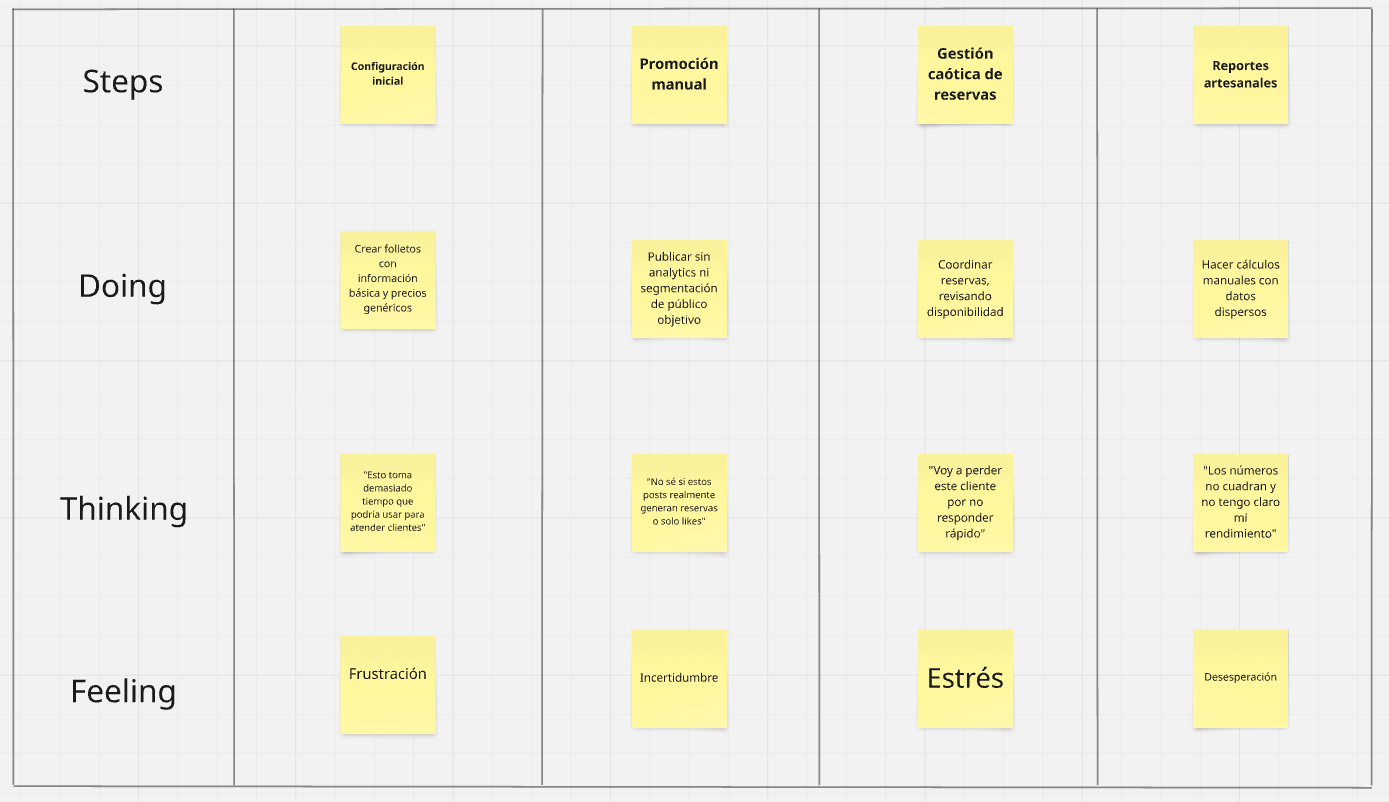
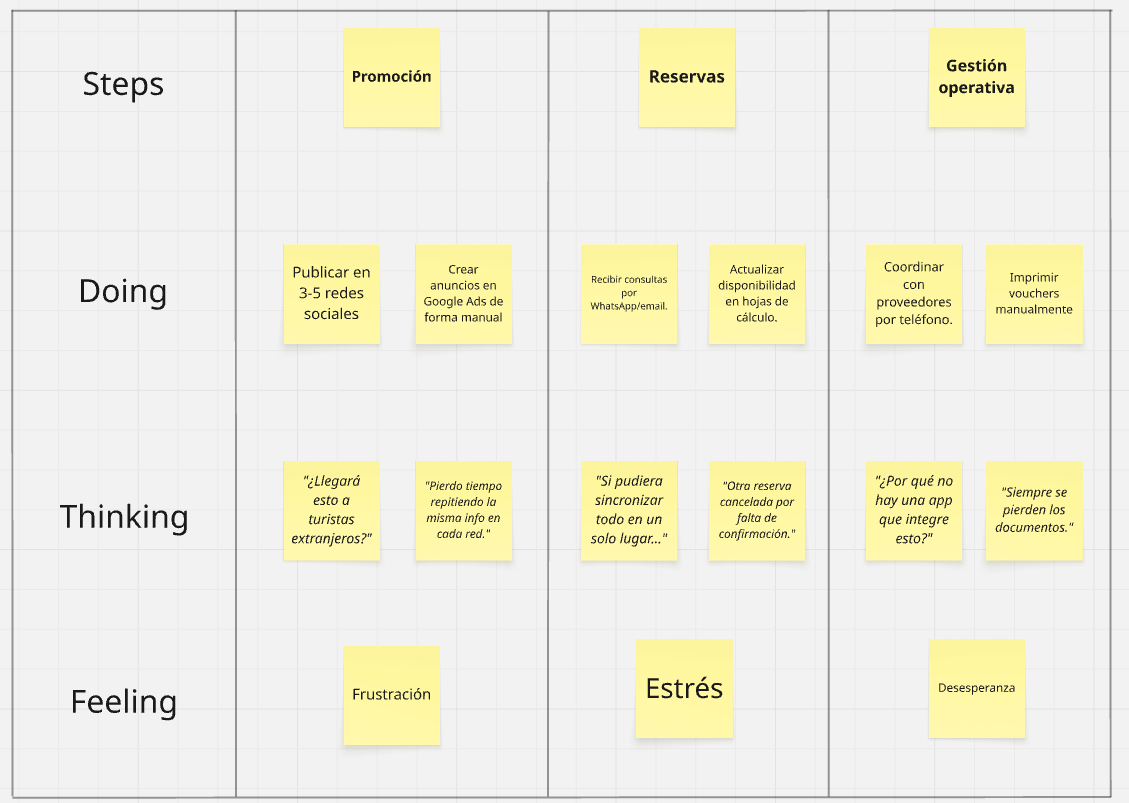
feat: agregando modificaciones

diff --git a/README.md b/README.md
@@ -862,22 +862,64 @@ Basados en los resultados de las entrevistas y el análisis de datos, hemos defi
 
 #### 2.3.2. User Task Matrix
 
-<p align="center">
-    <img src="assets/recursos/Task_Matrix_Turistas.jpg" alt="Task-Matrix-Turistas"/>
-</p>
+***Segmento 1: Dueños de agencia de viajes***
 
-<p align="center">
-    <img src="assets/recursos/Task_Matrix_Agencias.jpg" alt="Task-Matrix-Agencias"/>
-</p>
+|**Tony Blades**|||
+| :-: | :- | :- |
+|**Actividades**|**Frecuencia**|**Importancia**|
+|Gestionar y actualizar catálogo de tours en tiempo real|Alta|Alta|
+|Sincronizar disponibilidad de tours en múltiples canales|Alta|Alta|
+|Responder consultas de clientes a través de la plataforma|Alta|Alta|
+|Generar reportes de reservas y rendimiento financiero|Media|Alta|
+|Promocionar tours en redes sociales integradas|Media|Media|
+|Configurar precios dinámicos según temporada|Media|Alta|
+|Capacitar al equipo en el uso de la plataforma|Baja|Media|
 
-<p align="center">
-    <img src="assets/recursos/Task_Matrix_Viajeros.jpg" alt="Task-Matrix-Viajeros"/>
-</p>
+***Segmento 2: Turistas nacionales e internacionales***
+
+|**Adrián Méndez**|||
+| :-: | :- | :- |
+|**Actividades**|**Frecuencia**|**Importancia**|
+|Buscar actividades filtradas por destino, presupuesto e intereses|Alta|Alta|
+|Comparar precios, reseñas y duración de tours	|Alta|Alta|
+|Reservar actividades con confirmación instantánea|Alta|Alta|
+|Comunicarse con guías/agencias para personalizar tours|Media|Alta|
+|Gestionar itinerarios de viaje integrados|Media|Alta|
+|Compartir experiencias en redes sociales desde la app|Media|Media|
+|Calificar tours y dejar reseñas detalladas|Media|Alta|
+
+***Segmento 3: Turistas corporativos***
+
+|**César Vásquez**|||
+| :-: | :- | :- |
+|**Actividades**|**Frecuencia**|**Importancia**|
+|Encontrar actividades cercanas a su ubicación laboral|Alta|Alta|
+|Recibir recomendaciones automáticas basadas en horario disponible|Alta|Alta|
+|Reservar tours cortos con flexibilidad horaria|Alta|Alta|
+|Verificar puntualidad y confiabilidad de las agencias|Alta|Alta|
+|Acceder a opciones de pago rápido|Media|Alta|
+|Gestionar reservas desde la app móvil en tiempo real|Alta|Alta|
+|Recibir alertas de actividades compatibles con su agenda|Media|Media|
+
 
 #### 2.3.3. User Journey Mapping
 
+***Segmento 1: Dueños de agencia de viajes***
+
 <p align="center">
-    <img src="assets/recursos/User_Journey_Mapping.jpg" alt="User-Journey-Mapping"/>
+    <img src="assets/recursos/User_Journey_Mapping1.png" alt="User-Journey-Mapping"/>
+</p>
+
+***Segmento 2: Turistas nacionales e internacionales***
+
+<p align="center">
+    <img src="assets/recursos/User_Journey_Mapping2.png" alt="User-Journey-Mapping"/>
+</p>
+
+***Segmento 3: Turistas corporativos***
+
+<p align="center">
+    <img src="assets/recursos/User_Journey_Mapping3.png" alt="User-Journey-Mapping"/>
 </p>
 
 #### 2.3.4. Empathy Mapping
@@ -905,7 +947,7 @@ Basados en los resultados de las entrevistas y el análisis de datos, hemos defi
 #### 2.3.5.1. As-is Scenario Mapping Turistas nacionales e internacionales
 
 <p align="center">
-    <img src="assets/recursos/As_is_Turistas.jpg" alt="As-is-Turistas"/>
+    <img src="assets/recursos/As_is_Turistas.png" alt="As-is-Turistas"/>
 </p>
 
 #### 2.3.5.2. As-is Scenario Mapping Agencias de turismo locales
@@ -947,7 +989,7 @@ Basados en los resultados de las entrevistas y el análisis de datos, hemos defi
 #### 3.1.1. To-Be Scenario Mapping Turistas nacionales e internacionales
 
 <p align="center">
-    <img src="assets/recursos/To_be_Turistas.jpg" alt="To-be-Turistas"/>
+    <img src="assets/recursos/To_be_Turistas.png" alt="To-be-Turistas"/>
 </p>
 
 #### 3.1.2. To-Be Scenario Mapping Agencias de turismo locales
@@ -2146,7 +2188,6 @@ Durante este Sprint, el equipo colaboró activamente en el desarrollo de la land
     <td> 10 </td>
   </tr>
 </table>
-
 
 ## Conclusiones
 
